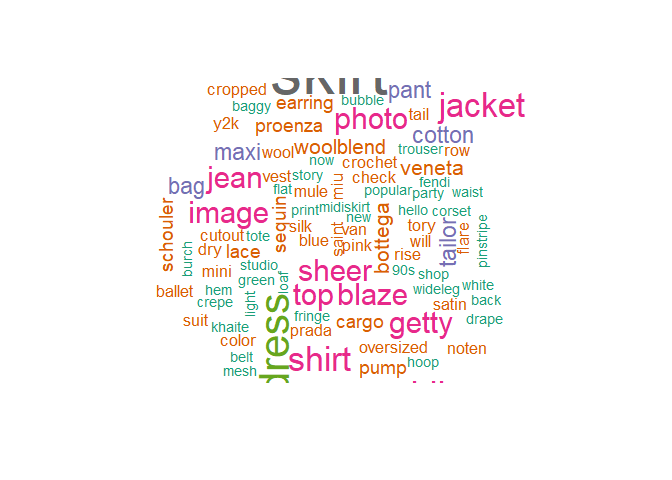
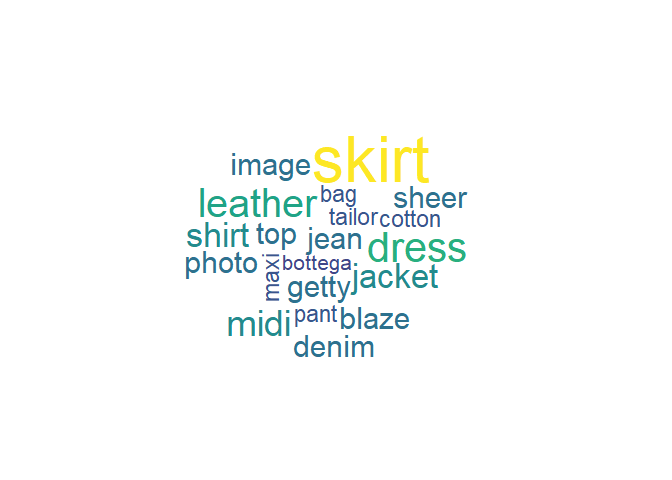
edit

Changed region(s): [[0.2188, 0.1562, 0.7812, 0.8125]]

diff --git a/Top_Fashion_Trends_2023.md b/Top_Fashion_Trends_2023.md
@@ -303,6 +303,18 @@ article:
 
 ![](Top_Fashion_Trends_2023_files/figure-markdown_strict/unnamed-chunk-16-1.png)
 
+    library(viridis)
+
+    ## Loading required package: viridisLite
+
+    # Select the top 20 words
+    top_20_words <- head(sort(term_frequency, decreasing = TRUE), 20)
+
+    # Create the word cloud with pretty colors
+    wordcloud(names(top_20_words), top_20_words, colors = viridis(20))
+
+![](Top_Fashion_Trends_2023_files/figure-markdown_strict/unnamed-chunk-16-2.png)
+
 From conducting the term frequency, we see that skirts, dresses,
 leather, denim, and sheer are the most used terms. This indicates that
 all 10 fashion articles believe these clothing articles/ styles will be
